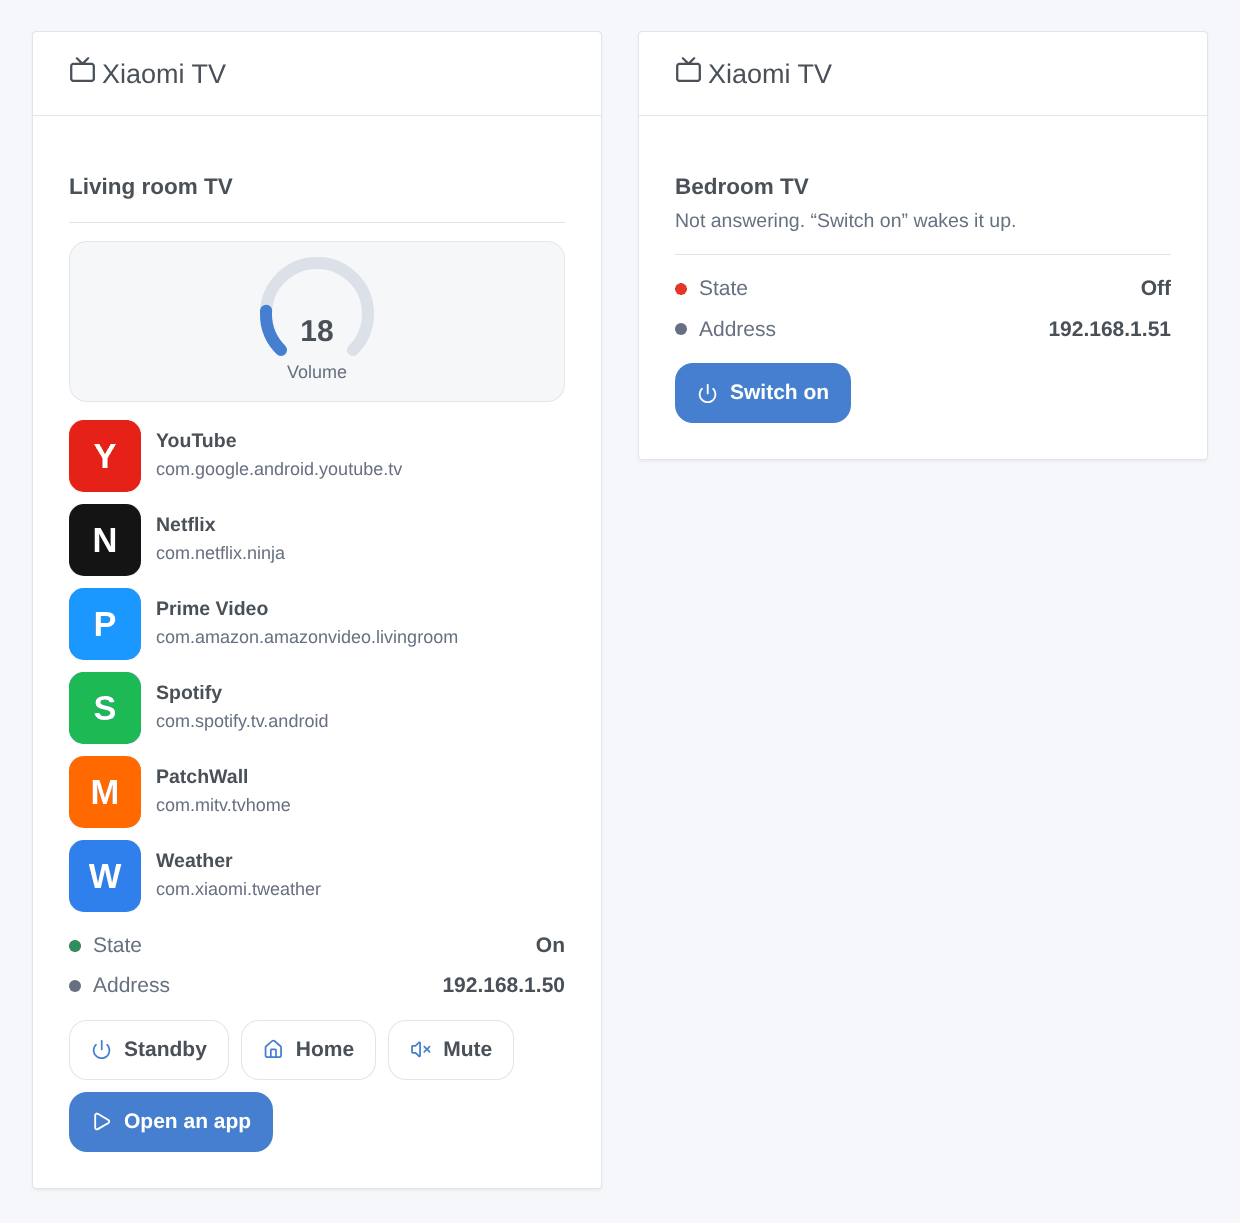
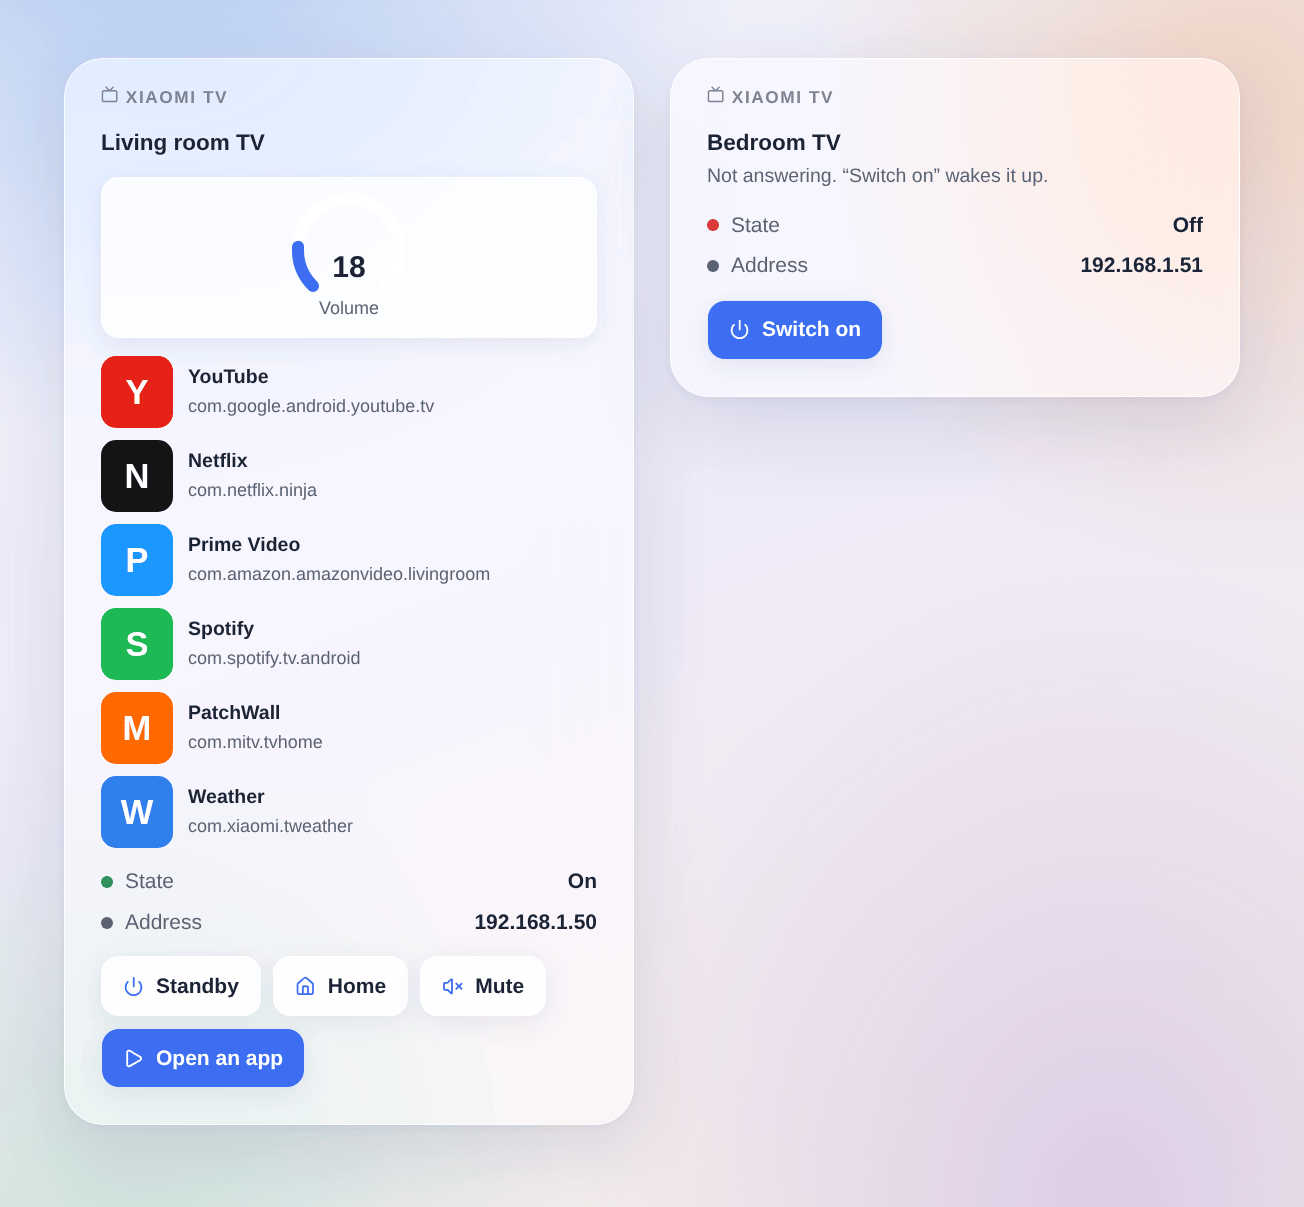
docs: widget illustrations in the Gladys 5 look (Horizon glass dashboard)
The illustrations used the Gladys v4 card look. render.sh now takes the styles of the current Gladys front, adds the Horizon dashboard theme (glass cards, uppercase title, default scene) and quantizes with libimagequant so the small colored dots survive the gradient.

diff --git a/docs/illustrations/index.html b/docs/illustrations/index.html
@@ -5,10 +5,25 @@
     <link rel="stylesheet" href="vendor/theme/package/dashboard.css" />
     <link rel="stylesheet" href="widget.css" />
     <link rel="stylesheet" href="dark-mode.css" />
+    <link rel="stylesheet" href="horizon.css" />
     <style>
       body {
-        background: #f5f7fb;
-        padding: 24px;
+        background: #fff;
+        margin: 0;
+        padding: 8px;
+      }
+      /* the page header of the theme shares the class name of the widget
+         header slot (a CSS module class in Gladys): keep it off the widget */
+      .card .header {
+        padding: 0;
+        background: none;
+        border-bottom: 0;
+      }
+      /* the dashboard scene, a margin around the cards for their shadow */
+      #stage {
+        display: inline-block;
+        overflow: hidden;
+        padding: 40px 44px 56px;
       }
       #row {
         display: flex;
@@ -27,7 +42,7 @@
     <script src="data.js"></script>
   </head>
   <body>
-    <div id="row"></div>
+    <div id="stage" class="glass-theme glassScene"><div id="row"></div></div>
     <script>
       if (new URLSearchParams(location.search).get('theme') === 'dark') {
         document.documentElement.classList.add('dark-mode');
